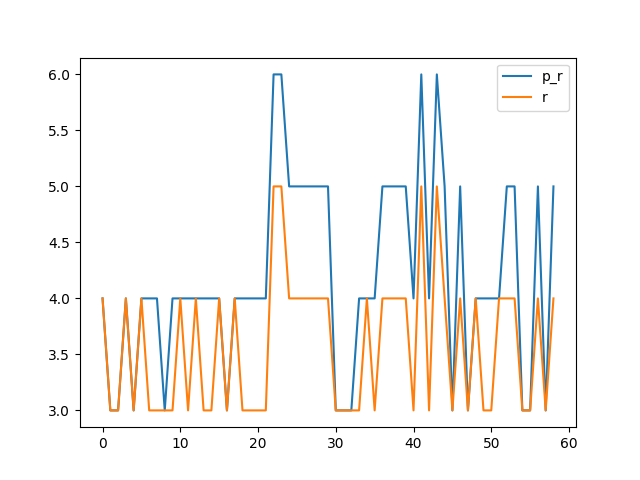
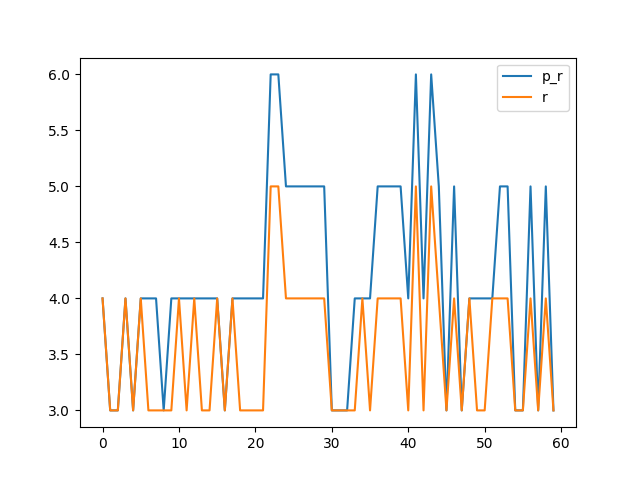
0x003B

diff --git a/benchmark.md b/benchmark.md
@@ -116,16 +116,18 @@ Synthesising 0x0039 pexact:224 r=3 exact:224 r=3
 
 Synthesising 0x003A pexact:304 r=5 exact:320 r=4
 
+Synthesising 0x003B pexact:216 r=3 exact:216 r=3
+
 ```mermaid
 xychart-beta
     title "Comparison powertwoexact twoexact"
-    x-axis [0, 1, 2, 3, 4, 5, 6, 7, 8, 9, 10, 11, 12, 13, 14, 15, 16, 17, 18, 19, 20, 21, 22, 23, 24, 25, 26, 27, 28, 29, 30, 31, 32, 33, 34, 35, 36, 37, 38, 39, 40, 41, 42, 43, 44, 45, 46, 47, 48, 49, 50, 51, 52, 53, 54, 55, 56, 57, 58]
+    x-axis [0, 1, 2, 3, 4, 5, 6, 7, 8, 9, 10, 11, 12, 13, 14, 15, 16, 17, 18, 19, 20, 21, 22, 23, 24, 25, 26, 27, 28, 29, 30, 31, 32, 33, 34, 35, 36, 37, 38, 39, 40, 41, 42, 43, 44, 45, 46, 47, 48, 49, 50, 51, 52, 53, 54, 55, 56, 57, 58, 59]
     y-axis "Switching Activity" 0-->464
-    line [96, 152, 152, 182, 152, 182, 208, 182, 152, 208, 182, 182, 182, 182, 182, 182, 152, 182, 208, 182, 208, 182, 406, 400, 336, 310, 310, 304, 310, 304, 224, 216, 152, 208, 182, 182, 336, 310, 310, 304, 208, 406, 182, 400, 310, 224, 304, 216, 182, 182, 182, 182, 310, 304, 224, 216, 310, 224, 304]
-    line [192, 152, 152, 312, 152, 352, 224, 192, 192, 224, 352, 216, 320, 216, 216, 352, 152, 326, 224, 216, 224, 192, 464, 448, 352, 344, 344, 320, 336, 352, 224, 216, 192, 224, 318, 192, 352, 344, 344, 312, 224, 448, 192, 440, 344, 224, 312, 216, 320, 216, 216, 280, 344, 312, 224, 216, 344, 224, 320]
-    line [234.67796610169492, 234.67796610169492, 234.67796610169492, 234.67796610169492, 234.67796610169492, 234.67796610169492, 234.67796610169492, 234.67796610169492, 234.67796610169492, 234.67796610169492, 234.67796610169492, 234.67796610169492, 234.67796610169492, 234.67796610169492, 234.67796610169492, 234.67796610169492, 234.67796610169492, 234.67796610169492, 234.67796610169492, 234.67796610169492, 234.67796610169492, 234.67796610169492, 234.67796610169492, 234.67796610169492, 234.67796610169492, 234.67796610169492, 234.67796610169492, 234.67796610169492, 234.67796610169492, 234.67796610169492, 234.67796610169492, 234.67796610169492, 234.67796610169492, 234.67796610169492, 234.67796610169492, 234.67796610169492, 234.67796610169492, 234.67796610169492, 234.67796610169492, 234.67796610169492, 234.67796610169492, 234.67796610169492, 234.67796610169492, 234.67796610169492, 234.67796610169492, 234.67796610169492, 234.67796610169492, 234.67796610169492, 234.67796610169492, 234.67796610169492, 234.67796610169492, 234.67796610169492, 234.67796610169492, 234.67796610169492, 234.67796610169492, 234.67796610169492, 234.67796610169492, 234.67796610169492, 234.67796610169492]
-    line [275.3220338983051, 275.3220338983051, 275.3220338983051, 275.3220338983051, 275.3220338983051, 275.3220338983051, 275.3220338983051, 275.3220338983051, 275.3220338983051, 275.3220338983051, 275.3220338983051, 275.3220338983051, 275.3220338983051, 275.3220338983051, 275.3220338983051, 275.3220338983051, 275.3220338983051, 275.3220338983051, 275.3220338983051, 275.3220338983051, 275.3220338983051, 275.3220338983051, 275.3220338983051, 275.3220338983051, 275.3220338983051, 275.3220338983051, 275.3220338983051, 275.3220338983051, 275.3220338983051, 275.3220338983051, 275.3220338983051, 275.3220338983051, 275.3220338983051, 275.3220338983051, 275.3220338983051, 275.3220338983051, 275.3220338983051, 275.3220338983051, 275.3220338983051, 275.3220338983051, 275.3220338983051, 275.3220338983051, 275.3220338983051, 275.3220338983051, 275.3220338983051, 275.3220338983051, 275.3220338983051, 275.3220338983051, 275.3220338983051, 275.3220338983051, 275.3220338983051, 275.3220338983051, 275.3220338983051, 275.3220338983051, 275.3220338983051, 275.3220338983051, 275.3220338983051, 275.3220338983051, 275.3220338983051]
-    bar [80, 60, 60, 80, 60, 80, 80, 80, 60, 80, 80, 80, 80, 80, 80, 80, 60, 80, 80, 80, 80, 80, 120, 120, 100, 100, 100, 100, 100, 100, 60, 60, 60, 80, 80, 80, 100, 100, 100, 100, 80, 120, 80, 120, 100, 60, 100, 60, 80, 80, 80, 80, 100, 100, 60, 60, 100, 60, 100]
-    bar [80, 60, 60, 80, 60, 80, 60, 60, 60, 60, 80, 60, 80, 60, 60, 80, 60, 80, 60, 60, 60, 60, 100, 100, 80, 80, 80, 80, 80, 80, 60, 60, 60, 60, 80, 60, 80, 80, 80, 80, 60, 100, 60, 100, 80, 60, 80, 60, 80, 60, 60, 80, 80, 80, 60, 60, 80, 60, 80]
+    line [96, 152, 152, 182, 152, 182, 208, 182, 152, 208, 182, 182, 182, 182, 182, 182, 152, 182, 208, 182, 208, 182, 406, 400, 336, 310, 310, 304, 310, 304, 224, 216, 152, 208, 182, 182, 336, 310, 310, 304, 208, 406, 182, 400, 310, 224, 304, 216, 182, 182, 182, 182, 310, 304, 224, 216, 310, 224, 304, 216]
+    line [192, 152, 152, 312, 152, 352, 224, 192, 192, 224, 352, 216, 320, 216, 216, 352, 152, 326, 224, 216, 224, 192, 464, 448, 352, 344, 344, 320, 336, 352, 224, 216, 192, 224, 318, 192, 352, 344, 344, 312, 224, 448, 192, 440, 344, 224, 312, 216, 320, 216, 216, 280, 344, 312, 224, 216, 344, 224, 320, 216]
+    line [234.36666666666667, 234.36666666666667, 234.36666666666667, 234.36666666666667, 234.36666666666667, 234.36666666666667, 234.36666666666667, 234.36666666666667, 234.36666666666667, 234.36666666666667, 234.36666666666667, 234.36666666666667, 234.36666666666667, 234.36666666666667, 234.36666666666667, 234.36666666666667, 234.36666666666667, 234.36666666666667, 234.36666666666667, 234.36666666666667, 234.36666666666667, 234.36666666666667, 234.36666666666667, 234.36666666666667, 234.36666666666667, 234.36666666666667, 234.36666666666667, 234.36666666666667, 234.36666666666667, 234.36666666666667, 234.36666666666667, 234.36666666666667, 234.36666666666667, 234.36666666666667, 234.36666666666667, 234.36666666666667, 234.36666666666667, 234.36666666666667, 234.36666666666667, 234.36666666666667, 234.36666666666667, 234.36666666666667, 234.36666666666667, 234.36666666666667, 234.36666666666667, 234.36666666666667, 234.36666666666667, 234.36666666666667, 234.36666666666667, 234.36666666666667, 234.36666666666667, 234.36666666666667, 234.36666666666667, 234.36666666666667, 234.36666666666667, 234.36666666666667, 234.36666666666667, 234.36666666666667, 234.36666666666667, 234.36666666666667]
+    line [274.3333333333333, 274.3333333333333, 274.3333333333333, 274.3333333333333, 274.3333333333333, 274.3333333333333, 274.3333333333333, 274.3333333333333, 274.3333333333333, 274.3333333333333, 274.3333333333333, 274.3333333333333, 274.3333333333333, 274.3333333333333, 274.3333333333333, 274.3333333333333, 274.3333333333333, 274.3333333333333, 274.3333333333333, 274.3333333333333, 274.3333333333333, 274.3333333333333, 274.3333333333333, 274.3333333333333, 274.3333333333333, 274.3333333333333, 274.3333333333333, 274.3333333333333, 274.3333333333333, 274.3333333333333, 274.3333333333333, 274.3333333333333, 274.3333333333333, 274.3333333333333, 274.3333333333333, 274.3333333333333, 274.3333333333333, 274.3333333333333, 274.3333333333333, 274.3333333333333, 274.3333333333333, 274.3333333333333, 274.3333333333333, 274.3333333333333, 274.3333333333333, 274.3333333333333, 274.3333333333333, 274.3333333333333, 274.3333333333333, 274.3333333333333, 274.3333333333333, 274.3333333333333, 274.3333333333333, 274.3333333333333, 274.3333333333333, 274.3333333333333, 274.3333333333333, 274.3333333333333, 274.3333333333333, 274.3333333333333]
+    bar [80, 60, 60, 80, 60, 80, 80, 80, 60, 80, 80, 80, 80, 80, 80, 80, 60, 80, 80, 80, 80, 80, 120, 120, 100, 100, 100, 100, 100, 100, 60, 60, 60, 80, 80, 80, 100, 100, 100, 100, 80, 120, 80, 120, 100, 60, 100, 60, 80, 80, 80, 80, 100, 100, 60, 60, 100, 60, 100, 60]
+    bar [80, 60, 60, 80, 60, 80, 60, 60, 60, 60, 80, 60, 80, 60, 60, 80, 60, 80, 60, 60, 60, 60, 100, 100, 80, 80, 80, 80, 80, 80, 60, 60, 60, 60, 80, 60, 80, 80, 80, 80, 60, 100, 60, 100, 80, 60, 80, 60, 80, 60, 60, 80, 80, 80, 60, 60, 80, 60, 80, 60]
 ```
 
